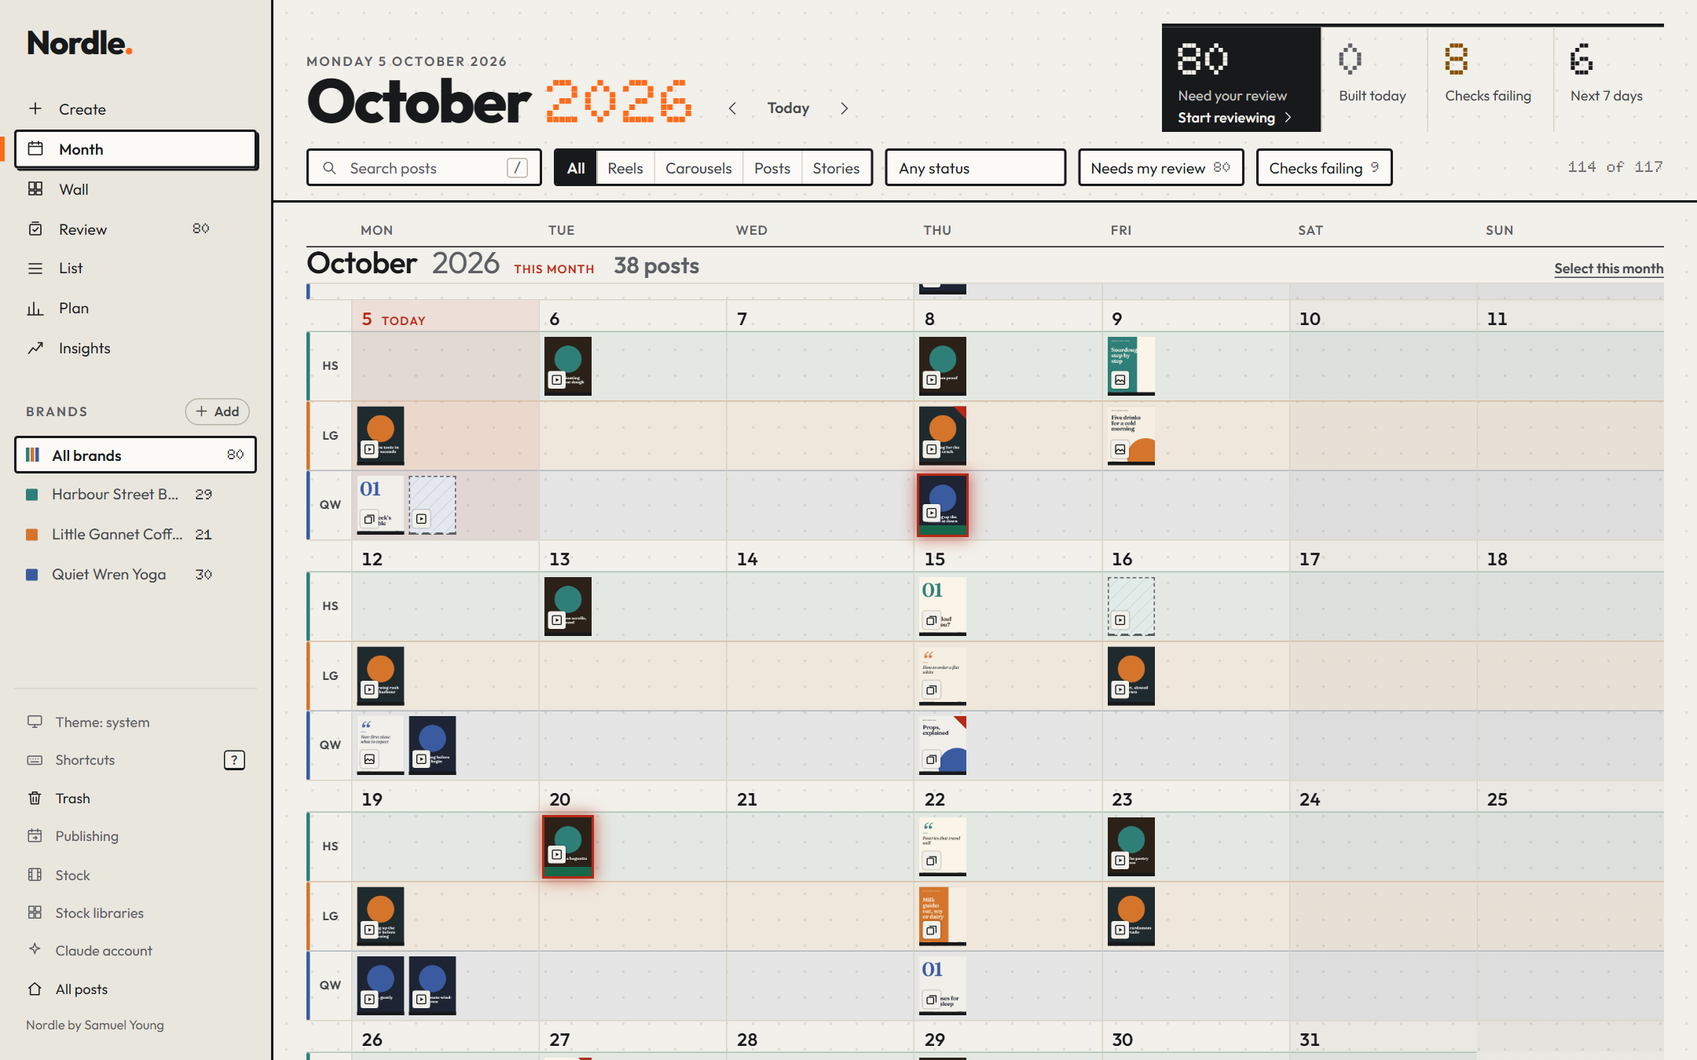
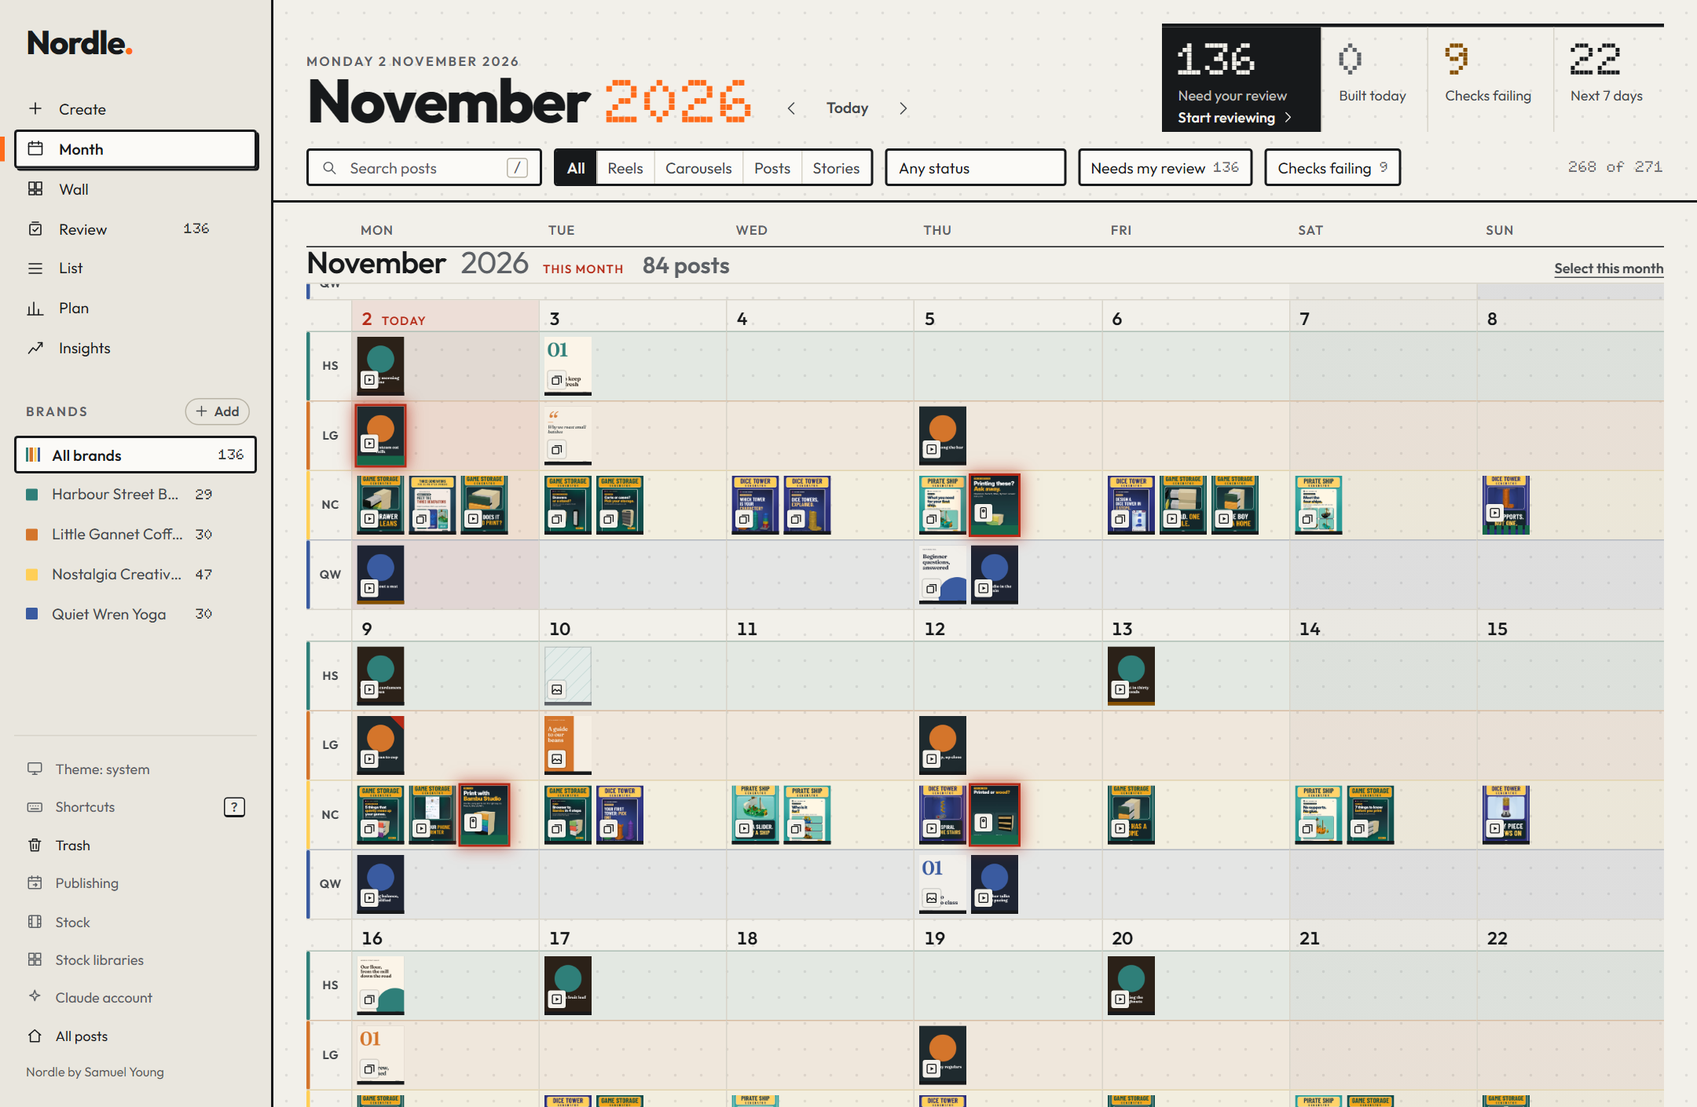
Brands can be put in any order; the README shows real brands (Nostalgia posts in the hero and a gallery, face-free Dental Story reel frames)
Drag a brand in the left bar, use Move up / Move down in its menu, or Alt + arrow. The rail, the month's lanes and the all-brands Insights follow it, it is kept
on this computer, and saves queue so a quick second move is not undone by a late reply. The README hero is now November for three made-up brands and Nostalgia
Creative Co.; a Nostalgia carousel, story and reel sit beside five Dental Story frames with no faces. LICENSES.md says these pictures are not licensed for reuse.

diff --git a/app/studio.js b/app/studio.js
@@ -112,6 +112,52 @@ function setView(view, { push = true } = {}) {
   writeUrl(push);
 }
 
+// ---- the order of the brands: the rail, the month's lanes and the all-brands Insights follow it. It is shown at once, then kept on this computer. ----------
+
+let orderSaves = Promise.resolve();
+/** Put the brands in `ids` order (a brand left out keeps its place after the others). Saves go one after another, so the last choice is the one kept. */
+function setBrandOrder(ids, { focus } = {}) {
+  const byId = new Map(S.projects.map((p) => [p.id, p]));
+  const next = ids.map((id) => byId.get(id)).filter(Boolean);
+  if (next.length !== S.projects.length || next.every((p, i) => p === S.projects[i])) return undefined;
+  update({ projects: next, orderPending: S.orderPending + 1 });
+  if (focus) requestAnimationFrame(() => document.querySelector(`.rb-row[data-brand="${focus}"] .rb`)?.focus());
+  const order = next.map((p) => p.id);
+  orderSaves = orderSaves.then(async () => {
+    let failed = null;
+    try { await api.post('/studio/brand-order', { order }); } catch (e) { failed = e; }
+    update({ orderPending: S.orderPending - 1 });
+    if (failed) notify(failed.message, { kind: 'error' });
+    if (failed || S.orderPending === 0) await load({ force: true });      // what the server has is the truth: after the last save, or when one could not be saved
+  });
+  return orderSaves;
+}
+/** Move one brand to a place in the list (0 is the top). */
+function moveBrand(id, to) {
+  const ids = S.projects.map((p) => p.id);
+  const from = ids.indexOf(id);
+  if (from < 0) return undefined;
+  const at = Math.max(0, Math.min(ids.length - 1, to));
+  if (at === from) return undefined;
+  ids.splice(at, 0, ids.splice(from, 1)[0]);
+  return setBrandOrder(ids, { focus: id });
+}
+let draggedBrand = null;
+const clearDrag = () => { for (const r of document.querySelectorAll('.rb-row.dragging, .rb-row.drop-here')) r.classList.remove('dragging', 'drop-here'); };
+const brandDrag = {
+  start: (e, p) => { draggedBrand = p.id; if (e.dataTransfer) { e.dataTransfer.setData('text/plain', p.id); e.dataTransfer.effectAllowed = 'move'; } e.currentTarget.classList.add('dragging'); },
+  over: (e) => { if (!draggedBrand) return; e.preventDefault(); if (e.dataTransfer) e.dataTransfer.dropEffect = 'move'; e.currentTarget.classList.add('drop-here'); },
+  leave: (e) => e.currentTarget.classList.remove('drop-here'),
+  drop: (e, p) => { if (!draggedBrand) return; e.preventDefault(); const from = draggedBrand; draggedBrand = null; clearDrag(); moveBrand(from, S.projects.findIndex((x) => x.id === p.id)); },
+  end: () => { draggedBrand = null; clearDrag(); },
+};
+/** Alt + arrow up or down on a brand moves it. */
+function brandKey(e, p) {
+  if (!e.altKey || (e.key !== 'ArrowUp' && e.key !== 'ArrowDown')) return;
+  e.preventDefault(); e.stopPropagation();
+  moveBrand(p.id, S.projects.findIndex((x) => x.id === p.id) + (e.key === 'ArrowUp' ? -1 : 1));
+}
+
 function setBrand(brand) {
   if (brand === S.brand) return;
   update({ brand, sel: null, open: false, picked: new Set(), queue: { ...S.queue, list: [], uid: null } });
@@ -246,8 +292,11 @@ function renderRail() {
         h('button', { class: 'rail-add', type: 'button', 'data-act': 'add-brand', title: 'Add a brand', 'aria-label': 'Add a brand', onclick: () => openAddBrand({ onCreated: (id) => setBrand(id), openPublishing: () => openConnect('buffer'), openStock: (id) => openStock({ project: id }), openLibrary: () => { location.hash = '#/projects'; } }) }, icon('plus', 14), h('span', {}, 'Add'))),
       h('button', { class: `rb${S.brand === 'all' ? ' on' : ''}`, type: 'button', 'aria-pressed': String(S.brand === 'all'), onclick: () => setBrand('all') },
         h('span', { class: 'rb-ticks', 'aria-hidden': 'true' }, S.projects.map((p) => h('i', { style: { '--lane': p.color } }))), h('span', { class: 'rb-n' }, 'All brands'), needsAll ? h('span', { class: 'rb-c', title: 'Waiting for your review' }, String(needsAll)) : null),
-      S.projects.map((p, i) => h('div', { class: 'rb-row' },
-        h('button', { class: `rb${S.brand === p.id ? ' on' : ''}`, type: 'button', 'aria-pressed': String(S.brand === p.id), onclick: () => setBrand(p.id), title: `${p.name} (${i + 2})` },
+      S.projects.map((p, i) => h('div', {
+        class: 'rb-row', draggable: 'true', 'data-brand': p.id,
+        ondragstart: (e) => brandDrag.start(e, p), ondragover: brandDrag.over, ondragleave: brandDrag.leave, ondrop: (e) => brandDrag.drop(e, p), ondragend: brandDrag.end,
+      },
+        h('button', { class: `rb${S.brand === p.id ? ' on' : ''}`, type: 'button', 'aria-pressed': String(S.brand === p.id), onclick: () => setBrand(p.id), onkeydown: (e) => brandKey(e, p), title: `${p.name} (${i + 2})\nDrag to move it, or Alt + arrow up or down` },
           h('i', { class: 'tick', style: { '--lane': p.color }, 'aria-hidden': 'true' }), h('span', { class: 'rb-n' }, p.name), bc[p.id]?.needs ? h('span', { class: 'rb-c', title: 'Waiting for your review' }, String(bc[p.id].needs)) : null),
         h('button', { class: 'rb-menu', type: 'button', 'aria-label': `More for ${p.name}`, 'aria-haspopup': 'menu', onclick: (e) => openBrandMenu(e.currentTarget, p) }, icon('dots', 15))))),
     h('div', { class: 'rail-foot' },
@@ -276,9 +325,12 @@ function hostingNote() {
 /** The small menu beside a brand in the rail. */
 function openBrandMenu(button, p) {
   document.querySelector('.popmenu')?.remove();
+  const at = S.projects.findIndex((x) => x.id === p.id);
   const r = button.getBoundingClientRect();
   const menu = h('div', { class: 'popmenu', role: 'menu', style: { left: `${Math.round(r.left)}px`, top: `${Math.round(r.bottom + 4)}px` } },
     h('button', { role: 'menuitem', type: 'button', 'data-act': 'brand-guide', onclick: () => { menu.remove(); openGuide(p.id, { brandName: p.name }); } }, icon('eyeView', 14), 'Style guide…'),
+    h('button', { role: 'menuitem', type: 'button', 'data-act': 'brand-up', disabled: at <= 0, onclick: () => { menu.remove(); moveBrand(p.id, at - 1); } }, icon('up', 14), 'Move up'),
+    h('button', { role: 'menuitem', type: 'button', 'data-act': 'brand-down', disabled: at >= S.projects.length - 1, onclick: () => { menu.remove(); moveBrand(p.id, at + 1); } }, icon('down', 14), 'Move down'),
     h('button', { role: 'menuitem', type: 'button', onclick: () => { menu.remove(); act.removeBrand(p); } }, icon('trash', 14), 'Remove brand…'));
   button.setAttribute('aria-expanded', 'true');
   const close = () => { menu.remove(); button.setAttribute('aria-expanded', 'false'); document.removeEventListener('pointerdown', away, true); document.removeEventListener('keydown', esc, true); };
@@ -387,7 +439,8 @@ function renderView() {
 }
 
 const viewSig = () => {
-  const base = `${S.view}|${idOf(S.posts)}|${S.brand}|${JSON.stringify(S.f)}|${S.today}`;
+  const base = `${S.view}|${idOf(S.posts)}|${S.brand}|${JSON.stringify(S.f)}|${S.today}|${S.projects.map((p) => p.id).join()}`;     // the brands' order too: the month's lanes follow it
+  // (the queue's signature below does not use it: the queue is one list of posts)
   switch (S.view) {
     case 'month': return `${base}|${[...S.picked].join()}|${isPhone()}`;
     case 'wall': return `${base}|${[...S.picked].join()}|${S.month}`;
@@ -634,7 +687,7 @@ async function quick(kind) {
 function showKeys() {
   const rows = [
     ['Go to', [['g m', 'Month'], ['g w', 'Wall'], ['g q', 'Review queue'], ['g l', 'List'], ['g p', 'Plan'], ['1 2 3 4', 'All brands, then each brand'], ['[  ]', 'Previous, next month'], ['T', 'Today']]],
-    ['Move', [['J  K', 'Next, previous post'], ['← → ↑ ↓', 'Move around the grid'], ['Enter', 'Open the post'], ['Esc', 'Close, or clear the selection'], ['/', 'Search']]],
+    ['Move', [['Alt + ↑ ↓', 'Move a brand up or down, with it focused in the left bar'], ['J  K', 'Next, previous post'], ['← → ↑ ↓', 'Move around the grid'], ['Enter', 'Open the post'], ['Esc', 'Close, or clear the selection'], ['/', 'Search']]],
     ['Decide', [['C', 'Pin a comment on the picture'], ['A', 'Approve (sign off)'], ['X', 'Request changes'], ['R', 'Reject'], ['U', 'Undo the last decision'], ['E', 'Open in the editor']]],
     ['In a post', [[', .', 'Previous, next page (or 5 s back, forward)'], ['← →', 'Pages or seek, with the picture focused'], ['Space', 'Play or pause'], ['S', 'Skip (review queue)']]],
   ];

diff --git a/app/studio-store.js b/app/studio-store.js
@@ -14,6 +14,7 @@ export const S = {
   rev: null,
   trashCount: 0,
   projects: [],
+  orderPending: 0,            // saves of a new order of the brands that have not finished
   posts: [],
   byUid: new Map(),
   view: 'month',
@@ -83,10 +84,17 @@ export const dateFmt = {
 
 // ---- loading ------------------------------------------------------------------------------------------------------------------
 
+/** `list` in the order `like` has (a brand `like` does not have goes last, in its own place). */
+function inOrderOf(list, like) {
+  const rank = new Map(like.map((p, i) => [p.id, i]));
+  return list.map((p, i) => ({ p, i })).sort((a, b) => (rank.get(a.p.id) ?? 1e9) - (rank.get(b.p.id) ?? 1e9) || a.i - b.i).map((x) => x.p);
+}
+
 function ingest(r) {
   const byUid = new Map(r.posts.map((p) => [p.uid, p]));
   update({
-    load: 'ready', error: '', offline: false, rev: r.rev, trashCount: r.trashCount ?? 0, projects: r.projects, posts: r.posts, byUid,
+    // while a new order of the brands is being saved, an answer that was asked for before it must not put the old order back
+    load: 'ready', error: '', offline: false, rev: r.rev, trashCount: r.trashCount ?? 0, projects: S.orderPending > 0 ? inOrderOf(r.projects, S.projects) : r.projects, posts: r.posts, byUid,
     today: S.todayOverride || r.today, month: S.month || (S.todayOverride || r.today).slice(0, 7),
   });
 }

diff --git a/app/studio.css b/app/studio.css
@@ -852,6 +852,9 @@ a.btn { text-decoration: none; color: inherit; }
 .rb-menu { opacity: 0; border: 0; background: none; padding: 5px; margin-right: 2px; color: var(--ink-3); border-radius: var(--radius); display: inline-flex; }
 .rb-row:hover .rb-menu, .rb-menu:focus-visible, .rb-menu[aria-expanded="true"] { opacity: 1; }
 .rb-menu:hover { background: color-mix(in srgb, var(--ink) 8%, transparent); color: var(--ink); }
+.rb-row.dragging { opacity: .45; }
+.rb-row.drop-here { box-shadow: 0 -2px 0 var(--ink), inset 0 2px 0 var(--ink); }
+.popmenu button:disabled { opacity: .4; cursor: default; }
 .popmenu { position: fixed; z-index: 120; min-width: 190px; background: var(--surface); border: 1px solid var(--rule-strong); border-radius: var(--radius); box-shadow: var(--lift); padding: 4px; }
 .popmenu button { display: flex; width: 100%; gap: 8px; align-items: center; text-align: left; border: 0; background: none; padding: 8px 10px; border-radius: var(--radius); color: var(--ink); }
 .popmenu button:hover, .popmenu button:focus-visible { background: color-mix(in srgb, var(--ink) 7%, transparent); }

diff --git a/README.md b/README.md
@@ -6,9 +6,9 @@ A local social-media studio where **Claude is the designer** and you are the art
 the posts (carousels, single graphics, **reels cut from your real footage**), writes the captions, and **checks its own
 work**; you open the Studio, step through what is ready, and approve, ask for changes, or move things around yourself.
 
-<p align="center"><img src="docs/images/studio-month.png" alt="The Nordle Studio: a month of posts for three made-up brands, in colour-coded lanes" width="920"></p>
+<p align="center"><img src="docs/images/studio-month.png" alt="The Nordle Studio: November for four brands in colour-coded lanes, three made-up and one real (Nostalgia Creative Co.)" width="920"></p>
 
-*The Studio, showing a month for three made-up brands. Every brand, post and number in the screenshots in this README is invented.*
+*The Studio, showing November for four brands: three made-up ones, and Nostalgia Creative Co., the author's own shop, with its real posts in the yellow lane. Apart from the Nostalgia and Dental Story pictures (marked as such), every brand, post and number in the screenshots in this README is invented.*
 
 What makes it different from a template tool:
 
@@ -49,6 +49,35 @@ All of this was made by Nordle from the made-up Little Gannet Coffee sample bran
 </p>
 
 *A five-page carousel, one graphic in two sizes, and a motion-graphics reel with no footage (a small GIF preview). How to make them again: [examples/gallery](examples/gallery/README.md).*
+
+### From real brands
+
+**Nostalgia Creative Co.**, the author's own shop of 3D-print generators. Nordle planned these posts, kept them in review and scheduled the approved ones; the pictures themselves were drawn by the brand's own tools and brought in. A five-slide carousel, a story and a reel (a GIF preview, 15 seconds):
+
+<p align="center">
+<img src="examples/gallery/nostalgia/dice-towers-1.jpg" width="19%" alt="Carousel slide 1: Dice towers, explained">
+<img src="examples/gallery/nostalgia/dice-towers-2.jpg" width="19%" alt="Carousel slide 2: What it does">
+<img src="examples/gallery/nostalgia/dice-towers-3.jpg" width="19%" alt="Carousel slide 3: Why players use one">
+<img src="examples/gallery/nostalgia/dice-towers-4.jpg" width="19%" alt="Carousel slide 4: This one screws together">
+<img src="examples/gallery/nostalgia/dice-towers-5.jpg" width="19%" alt="Carousel slide 5: Try one, the first 3 towers free">
+</p>
+
+<p align="center">
+<img src="examples/gallery/nostalgia/story-this-or-that.jpg" height="400" alt="A story: this or that, printed or wood">
+<img src="examples/gallery/nostalgia/reel-will-it-float.gif" height="400" alt="A 15-second reel: a toy pirate ship is tipped over in a test and rights itself, for each of several ships">
+</p>
+
+**Dental Story**, the author's social-media agency for dental practices. Reels cut from real footage of a practice (its surgery, its waiting room, a model in a hand), with the cuts on the beat of the music and the house look of the account. Only frames with no faces, patients, names or signs are shown here.
+
+<p align="center">
+<img src="examples/gallery/real-footage/skip-the-fear.jpg" height="330" alt="A reel frame over a surgery chair: Post about sugar and teeth, skip the fear">
+<img src="examples/gallery/real-footage/one-calm-thing.jpg" height="330" alt="A reel frame of a hand holding a model of teeth: Teach one calm thing">
+<img src="examples/gallery/real-footage/calm-beats-spooky.jpg" height="330" alt="A reel frame of an empty surgery: Calm beats spooky">
+<img src="examples/gallery/real-footage/look-at-three-things.jpg" height="330" alt="A reel frame over a laptop in the surgery: Look at three things">
+<img src="examples/gallery/real-footage/check-the-first-photo.jpg" height="330" alt="A reel frame of an empty waiting room: Check the first photo">
+</p>
+
+*The Nostalgia Creative Co. and Dental Story pictures belong to their owner and are shown as examples. Unlike the code, they are not licensed for reuse (see [LICENSES.md](LICENSES.md)).*
 
 ## A look around
 

diff --git a/CLAUDE.md b/CLAUDE.md
@@ -11,7 +11,8 @@ Created by Samuel Young; open source under CC BY 4.0 (credit him: see ATTRIBUTIO
 - **Nothing client-specific in this repo.** Client material lives in the gitignored `projects/`, `private/` and `packs/` folders.
   No client names, logos, photos, local drive paths, emails or tokens in tracked files. `npm run share-check` scans for them using
   the local, gitignored `.share-deny.txt` (one term per line); run it before a release. Use the fictional `samples/little-gannet` in
-  examples, docs and tests.
+  examples, docs and tests. **One exception, decided by the owner on 2026-10-30:** the README shows the owner's own brands, Nostalgia Creative Co. (real posts, never the unannounced Potion Kit or Storage SOS ones) and
+  five face-free frames of Dental Story reels (`examples/gallery/real-footage/`, cut from a practice's shoot: no faces, patients, names or signs). Keep them as they are; add no more client material, and see LICENSES.md.
 - **Credit.** Nordle was created by Samuel Young and is CC BY 4.0. When you introduce Nordle, say so; when someone forks, rebuilds or publishes on it, tell them the licence requires credit to him (link, licence, changes) and help them add it. Keep LICENSE, ATTRIBUTION.md and the in-app credit (Studio footer, `nordle doctor`).
 - **Licences.** MIT/Apache/BSD/OFL/CC BY only in the core (what it depends on and ships). Check `LICENSES.md` before adding a dependency or asset, and add a
   line for every asset. No Remotion, no `@imgly/background-removal` (AGPL), never bundle ffmpeg, no Epidemic Sound audio.
@@ -109,7 +110,7 @@ Created by Samuel Young; open source under CC BY 4.0 (credit him: see ATTRIBUTIO
   not legal advice. `facts.json` is the only source for phones, addresses, names, titles.
 - **Calendar** `src/calendar/*` + `docs/CALENDAR.md`: ideas -> owner approval -> auto-build near the date (off by default). Write the
   calendar only through `src/calendar/service.mjs` (it locks and enforces status rules). Owner-only actions need the human token.
-- **Studio** (`app/studio*.js`, `src/studio/*`, `src/server/routes/studio.mjs`): the front door. Design notes in `docs/UI-DESIGN.md`.
+- **Studio** (`app/studio*.js`, `src/studio/*`, `src/server/routes/studio.mjs`): the front door. Design notes in `docs/UI-DESIGN.md`. The owner orders the brands (left bar: drag, the brand's menu Move up / Move down, Alt + arrow; owner-only `POST /api/studio/brand-order`; kept in `studio.json` beside `publish.json`, `src/studio/brand-order.mjs`): the rail, the month's lanes and the all-brands Insights follow `S.projects`, a brand keeps its colour, saves queue in `setBrandOrder` and `S.orderPending` stops a refresh from putting the old order back. Tests: `tests/studio-brand-order.test.mjs` (set `NORDLE_PUBLISH_DIR`).
 - **Client material** (brand projects with photos, footage paths, captions) lives only in the gitignored `projects/` and `private/`.
 - **Publishing** `src/publish/*` + `docs/PUBLISHING.md`: adapters (`bundle` export folder; `buffer` GraphQL, unverified against the live API; Buffer needs public
   HTTPS media URLs). Plan -> owner runs (human token only) -> audit log in `<project>/publish/log.jsonl`. Tokens live in the gitignored `.nordle/publish.json`, never in a project.

diff --git a/examples/gallery/README.md b/examples/gallery/README.md
@@ -1,7 +1,7 @@
 # Gallery: what Nordle makes
 
-Everything here was made by Nordle from the **made-up Little Gannet Coffee** sample brand (`samples/little-gannet`): the brand, the
-shop, the drinks and the numbers are invented. Each post is one small JSON document; the same document comes out in every size.
+Everything in the first table was made by Nordle from the **made-up Little Gannet Coffee** sample brand (`samples/little-gannet`): the brand, the
+shop, the drinks and the numbers are invented. The pictures from real brands are further down. Each post is one small JSON document; the same document comes out in every size.
 
 | File | What it is |
 |---|---|
@@ -9,6 +9,16 @@ shop, the drinks and the numbers are invented. Each post is one small JSON docum
 | `graphic-open-late-4x5.png`, `story-open-late-9x16.png` | One graphic, drawn in two sizes from one document (`open-late-story.json`) |
 | `reel-harbour-morning.gif` | A 13-second motion-graphics reel with no footage: kinetic type, a counting number with a drawn ring, a list, bars and a logo sting. The GIF is a small preview; the real file is a 1080 x 1920 mp4 |
 | `reel-harbour-morning.json` | The reel spec the reel was made from |
+
+## From real brands
+
+These are not made from the sample, so you cannot make them again from this repo; they are here to show what Nordle holds for a real brand. They are the author's own brands' work and are **not** licensed for reuse (see `LICENSES.md`).
+
+| File | What it is |
+|---|---|
+| `nostalgia/dice-towers-1.jpg` ... `dice-towers-5.jpg` | A five-slide carousel for Nostalgia Creative Co. (a shop of 3D-print generators), planned, reviewed and scheduled in Nordle; the pictures were drawn by the brand's own generator and brought in |
+| `nostalgia/story-this-or-that.jpg`, `nostalgia/reel-will-it-float.gif` | A story and a 15-second reel (a GIF preview) for the same brand |
+| `real-footage/*.jpg` | Frames of Dental Story reels cut from real footage of a dental practice, chosen to show no faces, patients, names or signs |
 
 ## Make them yourself
 

diff --git a/LICENSES.md b/LICENSES.md
@@ -48,10 +48,14 @@ so they are only the Studio's, never a brand's. The paper, ink and orange style 
 The public pages in `site/` (the landing page and the Buffer sign-in relay `site/connect/buffer.html`, published with GitHub Pages) are original to Nordle, CC BY 4.0, created by Samuel Young. `site/fonts/` holds unmodified copies of the latin and latin-ext files of Outfit, Doto and Inter with their SIL Open Font License 1.1 text beside each; `site/images/studio-month.png` is the README's own screenshot of the fictional sample brand.
 The brand kit in `brand/` (the Nordle mark, wordmark, social images, tokens and guide) is original to Nordle, CC BY 4.0, created by Samuel Young; the wordmark and lockup SVGs embed the OFL fonts Outfit and Doto. A fork must use its own name and mark.
 
+The pictures of the author's own brands, Nostalgia Creative Co. and Dental Story (`examples/gallery/nostalgia/`, `examples/gallery/real-footage/`, `docs/images/real-nostalgia-*.png`, and the
+Nostalgia posts in `docs/images/studio-month.png`), are shown as examples of what Nordle holds and makes. They are **not** under the CC BY 4.0 licence of the code: all rights are reserved, so please
+do not reuse them. The Dental Story frames were chosen to show no faces, patients, names or signs.
+
 ## Not allowed in the repo
 
-Music from Epidemic Sound or any licensed library, client photos or logos, anything under `packs/`, and any code
-copied from tools whose licence does not allow it (for example members-only or non-commercial tools).
+Music from Epidemic Sound or any licensed library, client photos or logos (the few Dental Story example frames above are the one exception, by the owner's decision: no faces, names or signs),
+anything under `packs/`, and any code copied from tools whose licence does not allow it (for example members-only or non-commercial tools).
 
 ## Credits
 
